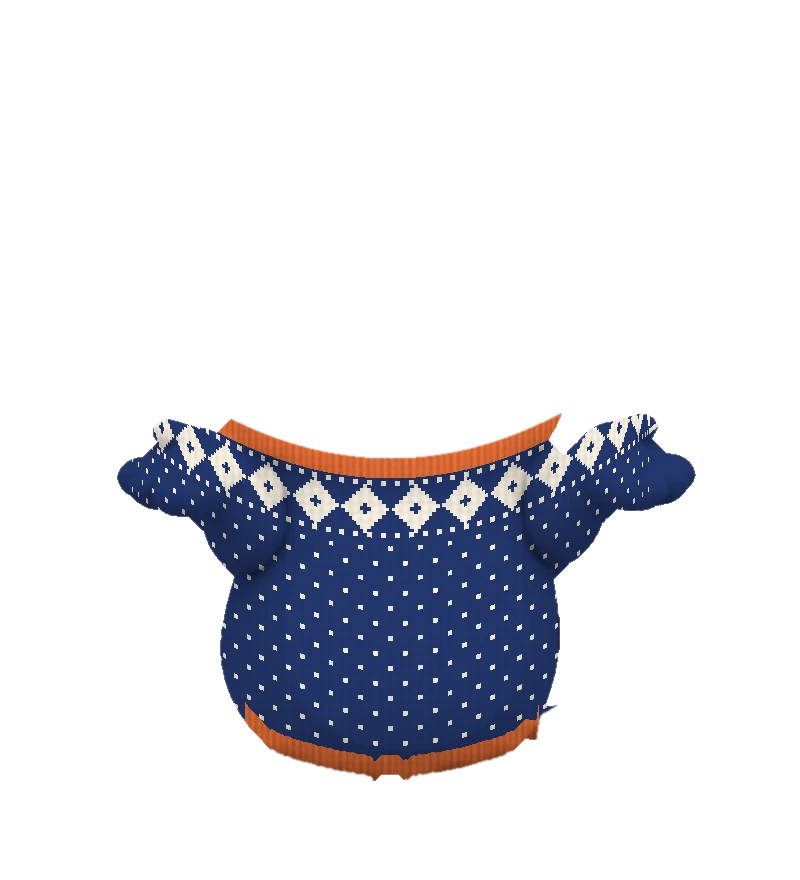
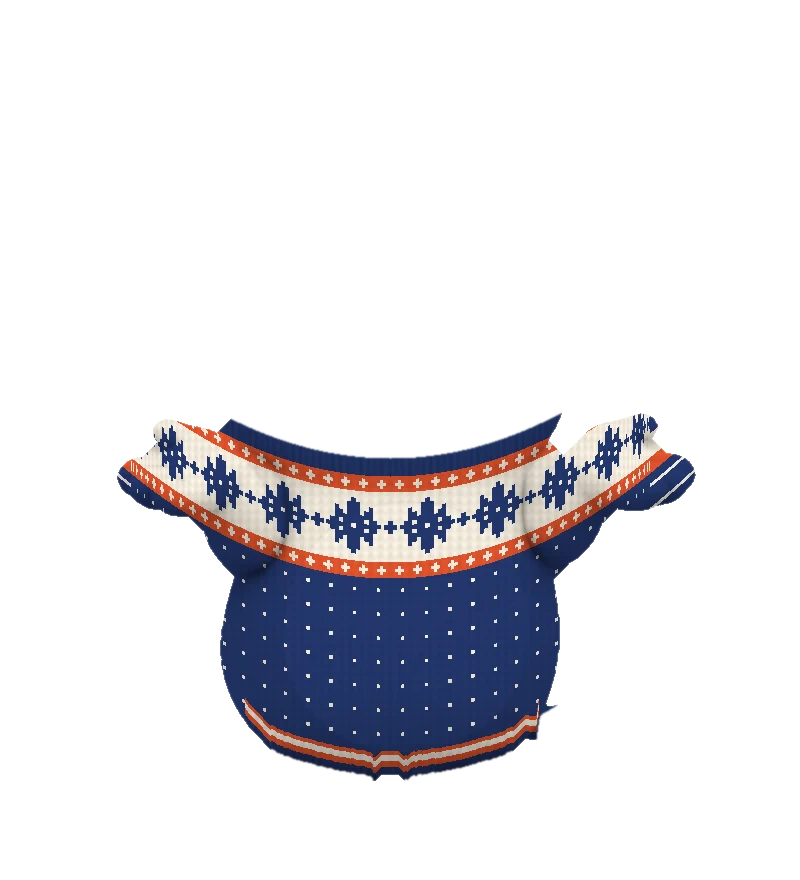
feat(web): restyle the troll's sweater as a Marius sweater
Navy body, a wide white chest band of eight-point stars between red
borders with white crosses, and striped cuffs and hem. The item is
renamed in all four interface languages.

The outfit preview sheet now draws the pupils, which the rig art leaves
out because the rig draws them itself.

Changed region(s): [[0.1562, 0.4602, 0.875, 0.7057], [0.2812, 0.7977, 0.6875, 0.8898]]

diff --git a/apps/web/src/i18n/strings.ts b/apps/web/src/i18n/strings.ts
@@ -316,7 +316,7 @@ const en = {
   item_lue: 'Lue (bobble hat)',
   item_glasses: 'Round glasses',
   item_scarf: 'Knitted scarf',
-  item_sweater: 'Lusekofte',
+  item_sweater: 'Marius sweater',
   item_anorak: 'Anorak',
   item_slippers: 'Wool slippers',
   item_cape: 'Northern lights cape',
@@ -327,7 +327,7 @@ const en = {
   got_lue: '{name} got a lue',
   got_glasses: '{name} got round glasses',
   got_scarf: '{name} got a knitted scarf',
-  got_sweater: '{name} got a lusekofte',
+  got_sweater: '{name} got a Marius sweater',
   got_anorak: '{name} got an anorak',
   got_slippers: '{name} got wool slippers',
   got_cape: '{name} got a northern lights cape',
@@ -659,7 +659,7 @@ const fr: Record<StringKey, string> = {
   item_lue: 'Lue (bonnet à pompon)',
   item_glasses: 'Lunettes rondes',
   item_scarf: 'Écharpe tricotée',
-  item_sweater: 'Lusekofte',
+  item_sweater: 'Pull Marius',
   item_anorak: 'Anorak',
   item_slippers: 'Chaussons en laine',
   item_cape: 'Cape aurore boréale',
@@ -670,7 +670,7 @@ const fr: Record<StringKey, string> = {
   got_lue: '{name} a reçu un lue',
   got_glasses: '{name} a reçu des lunettes rondes',
   got_scarf: '{name} a reçu une écharpe tricotée',
-  got_sweater: '{name} a reçu un lusekofte',
+  got_sweater: '{name} a reçu un pull Marius',
   got_anorak: '{name} a reçu un anorak',
   got_slippers: '{name} a reçu des chaussons en laine',
   got_cape: '{name} a reçu une cape aurore boréale',

diff --git a/apps/web/src/i18n/es.ts b/apps/web/src/i18n/es.ts
@@ -318,7 +318,7 @@ export const es: Record<StringKey, string> = {
   item_lue: 'Lue (gorro con pompón)',
   item_glasses: 'Gafas redondas',
   item_scarf: 'Bufanda de punto',
-  item_sweater: 'Lusekofte',
+  item_sweater: 'Jersey Marius',
   item_anorak: 'Anorak',
   item_slippers: 'Zapatillas de lana',
   item_cape: 'Capa de aurora boreal',
@@ -329,7 +329,7 @@ export const es: Record<StringKey, string> = {
   got_lue: '{name} ha conseguido un lue',
   got_glasses: '{name} ha conseguido gafas redondas',
   got_scarf: '{name} ha conseguido una bufanda de punto',
-  got_sweater: '{name} ha conseguido un lusekofte',
+  got_sweater: '{name} ha conseguido un jersey Marius',
   got_anorak: '{name} ha conseguido un anorak',
   got_slippers: '{name} ha conseguido zapatillas de lana',
   got_cape: '{name} ha conseguido una capa de aurora boreal',

diff --git a/apps/web/src/i18n/de.ts b/apps/web/src/i18n/de.ts
@@ -321,7 +321,7 @@ export const de: Record<StringKey, string> = {
   item_lue: 'Lue (Bommelmütze)',
   item_glasses: 'Runde Brille',
   item_scarf: 'Strickschal',
-  item_sweater: 'Lusekofte',
+  item_sweater: 'Marius-Pullover',
   item_anorak: 'Anorak',
   item_slippers: 'Wollhausschuhe',
   item_cape: 'Nordlicht-Umhang',
@@ -332,7 +332,7 @@ export const de: Record<StringKey, string> = {
   got_lue: '{name} hat eine Lue bekommen',
   got_glasses: '{name} hat eine runde Brille bekommen',
   got_scarf: '{name} hat einen Strickschal bekommen',
-  got_sweater: '{name} hat einen Lusekofte bekommen',
+  got_sweater: '{name} hat einen Marius-Pullover bekommen',
   got_anorak: '{name} hat einen Anorak bekommen',
   got_slippers: '{name} hat Wollhausschuhe bekommen',
   got_cape: '{name} hat einen Nordlicht-Umhang bekommen',

diff --git a/apps/web/src/components/outfits.test.ts b/apps/web/src/components/outfits.test.ts
@@ -18,7 +18,7 @@ describe('earnedItems', () => {
     expect([...earnedItems(profile(1200, 2))]).toEqual([]);
   });
 
-  it('gives the helmet at A2 and the lusekofte at B1, counting the level check', () => {
+  it('gives the helmet at A2 and the sweater at B1, counting the level check', () => {
     expect([...earnedItems(profile(1000, 5))]).toEqual(['helmet']);
     expect([...earnedItems(profile(1200, 5))]).toEqual(['helmet', 'sweater']);
     expect([...earnedItems(profile(1000, 0, { placedAt: 1 }))]).toEqual(['helmet']);

diff --git a/tools/troll-outfits/recolor.py b/tools/troll-outfits/recolor.py
@@ -10,6 +10,8 @@ CREAM = hexrgb('#f7efe0')
 ORANGE = hexrgb('#ff7a3d')
 ORANGE_D = hexrgb('#e85f2c')
 AURORA = hexrgb('#8fd4ff')
+# The brand's deep orange stands in for the classic Marius red.
+MARIUS_RED = hexrgb('#e4532c')
 
 
 def poly_mask(shape, polys):
@@ -86,48 +88,91 @@ def bands(m, xx, yy, G, neck):
     return hem, cuff, collar
 
 
-def rose(x, y, size):
-    """An eight-point knitting star (the rose of a lusekofte), 1 inside."""
-    q = np.floor(np.abs(x) / size * 7 + 0.5)
-    r = np.floor(np.abs(y) / size * 7 + 0.5)
-    inside = (q + r <= 6) & ((q <= 2) | (r <= 2) | (np.abs(q - r) <= 1))
-    hole = (q + r <= 1)
-    return inside & ~hole & (q <= 6) & (r <= 6)
+STAR = [
+    '......#......',
+    '.....###.....',
+    '..#..###..#..',
+    '..##.###.##..',
+    '..#########..',
+    '.##.#####.##.',
+    '######.######',
+    '.##.#####.##.',
+    '..#########..',
+    '..##.###.##..',
+    '..#..###..#..',
+    '.....###.....',
+    '......#......',
+]
+STAR_GRID = np.array([[ch == '#' for ch in row] for row in STAR])
+
+
+def marius_star(x, y, stitch):
+    """The eight-point star of a Marius sweater, knitted on a 13 x 13 grid of `stitch` px."""
+    i = np.floor(y / stitch + 6.5).astype(int)
+    j = np.floor(x / stitch + 6.5).astype(int)
+    inside = (i >= 0) & (i < 13) & (j >= 0) & (j < 13)
+    out = np.zeros(x.shape, bool)
+    out[inside] = STAR_GRID[i[inside], j[inside]]
+    return out
 
 
 def sweater(img, P):
+    """A classic Marius sweater: navy body, a wide white chest band of stars between red borders."""
     G = P['garment']
     m, soft, v, s, xx, yy, neck = garment_mask(img, G)
     hem, cuff, collar = bands(m, xx, yy, G, neck)
     sh = shade_of(v, s, m)
     col = np.broadcast_to(NAVY_K, m.shape + (3,)).copy()
-    # yoke with stars, below the collar
     cx = G['neck'][1]
     xx = wrap_x(xx, cx, G.get('R', 260))
-    yoke_top, yoke_h = 20, G.get('yoke', 62)
-    in_yoke = (collar > yoke_top) & (collar < yoke_top + yoke_h)
-    step = yoke_h * 0.82
-    sx = ((xx - cx) % step) - step / 2
-    sy = collar - yoke_top - yoke_h / 2
-    star = rose(sx, sy, yoke_h * 0.42) & in_yoke
-    # dotted borders of the yoke
-    dot = (np.abs(((xx - cx) % 14) - 7) < 2.6)
-    border = ((np.abs(collar - yoke_top - 5) < 2.6) | (np.abs(collar - yoke_top - yoke_h + 5) < 2.6)) & dot
-    # lice: small cream dots in a grid on the rest of the body
-    lx = ((xx - cx) % 30) - 15
-    ly = ((collar) % 30) - 15
-    lx2 = ((xx - cx + 15) % 30) - 15
-    ly2 = ((collar + 15) % 30) - 15
-    lice = ((np.abs(lx) < 2.4) & (np.abs(ly) < 2.4)) | ((np.abs(lx2) < 2.4) & (np.abs(ly2) < 2.4))
-    lice &= collar > yoke_top + yoke_h + 6
-    cream = star | border | lice
-    col[cream] = CREAM
-    # orange accents: collar rib and cuffs, hem
-    rib = (collar < yoke_top) | (cuff < 16) | (hem < 20)
-    col[rib] = ORANGE
-    k = knit(xx, yy)
-    rgb = col * (sh * k)[..., None]
-    rgb = np.where(rib[..., None], rgb * (0.94 + 0.06 * np.cos(xx * 2 * np.pi / 7))[..., None], rgb)
+    k = G.get('yoke', 62) / 62  # pattern scale per pose
+    c = collar / k
+    # Bands from the collar down (in stitches of 3 px at full scale).
+    red_top = (c > 18) & (c < 34)
+    white_line1 = (c >= 34) & (c < 39)
+    star_band = (c >= 39) & (c < 99)
+    white_line2 = (c >= 99) & (c < 104)
+    red_bot = (c >= 104) & (c < 120)
+    # Small white crosses in the red borders.
+    step = 18 * k
+    gx = ((xx - cx) % step) - step / 2
+
+    def crosses(y0):
+        gy = c - y0
+        return ((np.abs(gx) < 1.6 * k) & (np.abs(gy) < 4.8)) | ((np.abs(gx) < 4.8 * k) & (np.abs(gy) < 1.6))
+    col[red_top | red_bot] = MARIUS_RED
+    col[(red_top & crosses(26)) | (red_bot & crosses(112))] = CREAM
+    col[white_line1 | white_line2] = CREAM
+    # The star band: white ground, navy stars, small navy crosses between them.
+    col[star_band] = CREAM
+    sstep = 74 * k
+    sx = ((xx - cx) % sstep) - sstep / 2
+    sy = (c - 69) * k
+    stars = marius_star(sx, sy, 4.3 * k) & star_band
+    bx = ((xx - cx + sstep / 2) % sstep) - sstep / 2
+    small = (((np.abs(bx) < 2.2 * k) & (np.abs(sy) < 6.5 * k)) | ((np.abs(bx) < 6.5 * k) & (np.abs(sy) < 2.2 * k))) & star_band
+    col[stars | small] = NAVY_K
+    # Below the band: navy with a scatter of small white checks.
+    lx = ((xx - cx) % (24 * k)) - 12 * k
+    ly = ((c * k) % (24 * k)) - 12 * k
+    col[(np.abs(lx) < 1.8 * k) & (np.abs(ly) < 1.8 * k) & (c > 128)] = CREAM
+    # Ribbing: navy collar, red and white stripes at the cuffs and hem.
+    def stripes(d):
+        return np.where(((d // 6) % 2) == 0, 1, 0)
+
+    rib = c <= 18
+    col[rib] = NAVY_K
+    cuffs = cuff < 22
+    hems = hem < 24
+    col[cuffs & (stripes(cuff) == 1)] = MARIUS_RED
+    col[cuffs & (stripes(cuff) == 0)] = CREAM
+    col[hems & (hem < 8)] = NAVY_K
+    col[hems & (hem >= 8) & (stripes(hem - 8) == 1)] = MARIUS_RED
+    col[hems & (hem >= 8) & (stripes(hem - 8) == 0)] = CREAM
+    kn = knit(xx, yy)
+    rgb = col * (sh * kn)[..., None]
+    ribbed = rib | cuffs | (hems & (hem < 8))
+    rgb = np.where(ribbed[..., None], rgb * (0.94 + 0.06 * np.cos(xx * 2 * np.pi / 7))[..., None], rgb)
     return pack(rgb, soft)
 
 

diff --git a/tools/troll-outfits/build.py b/tools/troll-outfits/build.py
@@ -39,6 +39,18 @@ def shadow(layer, base, dy=9, blur=8, strength=0.32):
     return over(layer, out)
 
 
+def with_pupils(pose, base):
+    """The art as the app shows it: the rig art has plain eye whites and draws pupils on top."""
+    pupils = os.path.join(ART, f'{pose}-pupils.webp')
+    if not os.path.exists(pupils):
+        return base
+    pu = np.asarray(Image.open(pupils).convert('RGBA').resize(base.shape[1::-1])).astype(float) / 255
+    em = np.asarray(Image.open(os.path.join(ART, f'{pose}-eyes.png')).convert('RGB').resize(base.shape[1::-1])).astype(float) / 255
+    out = base.copy()
+    out[..., :3] += (pu[..., 3] * em[..., 0])[..., None] * (pu[..., :3] - em[..., 1:2]) * base[..., 3:4]
+    return np.clip(out, 0, 1)
+
+
 def layers_for(pose):
     P = POSES[pose]
     img = Image.open(os.path.join(ART, f'{pose}.webp'))
@@ -94,7 +106,7 @@ def main():
         if args.sheet:
             row = []
             for look in LOOKS:
-                d = over(dress(base, L, look), np.ones_like(base))
+                d = over(dress(with_pupils(pose, base), L, look), np.ones_like(base))
                 row.append(to_image(d).convert('RGB').resize((400, 440), Image.LANCZOS))
             rows.append(row)
         print(pose, 'done', flush=True)

diff --git a/docs/adr/0015-troll-name-and-wardrobe.md b/docs/adr/0015-troll-name-and-wardrobe.md
@@ -14,7 +14,7 @@ Rewards for streaks sit close to what [ADR 0012](0012-motivation-without-points.
 - The learner names the troll as the last onboarding question, with Tusse filled in. The name can be changed later from Me, on the troll's own page (`#/troll`). A blank name falls back to Tusse.
 - The troll has a wardrobe of eight items in six slots (head, eyes, neck, body, feet, back). The learner picks what it wears per slot, or nothing. A slot they never touched wears the latest item earned for it, so new clothes go on by themselves.
 - Items come two ways, and both only add:
-  - by level: the helmet at A2 and the lusekofte at B1, as before;
+  - by level: the helmet at A2 and the lusekofte at B1, as before (the sweater was later restyled as a classic Marius sweater);
   - by streak milestones: a knitted scarf at 3 days, a lue at 7, round glasses at 14, wool slippers at 30, an anorak at 60 and a northern lights cape at 100.
 - Streak items follow the **longest** streak ever (same forgiving rule as the current streak), not the current one. The longest streak and the highest level are also stored on the profile, so a broken streak, a lower rating or a later change of daily goal never takes anything back.
 - New items are announced on the session result, next to the other progress, with a link to change the outfit. Nothing nags: no countdowns, no "you'll lose it" wording.
